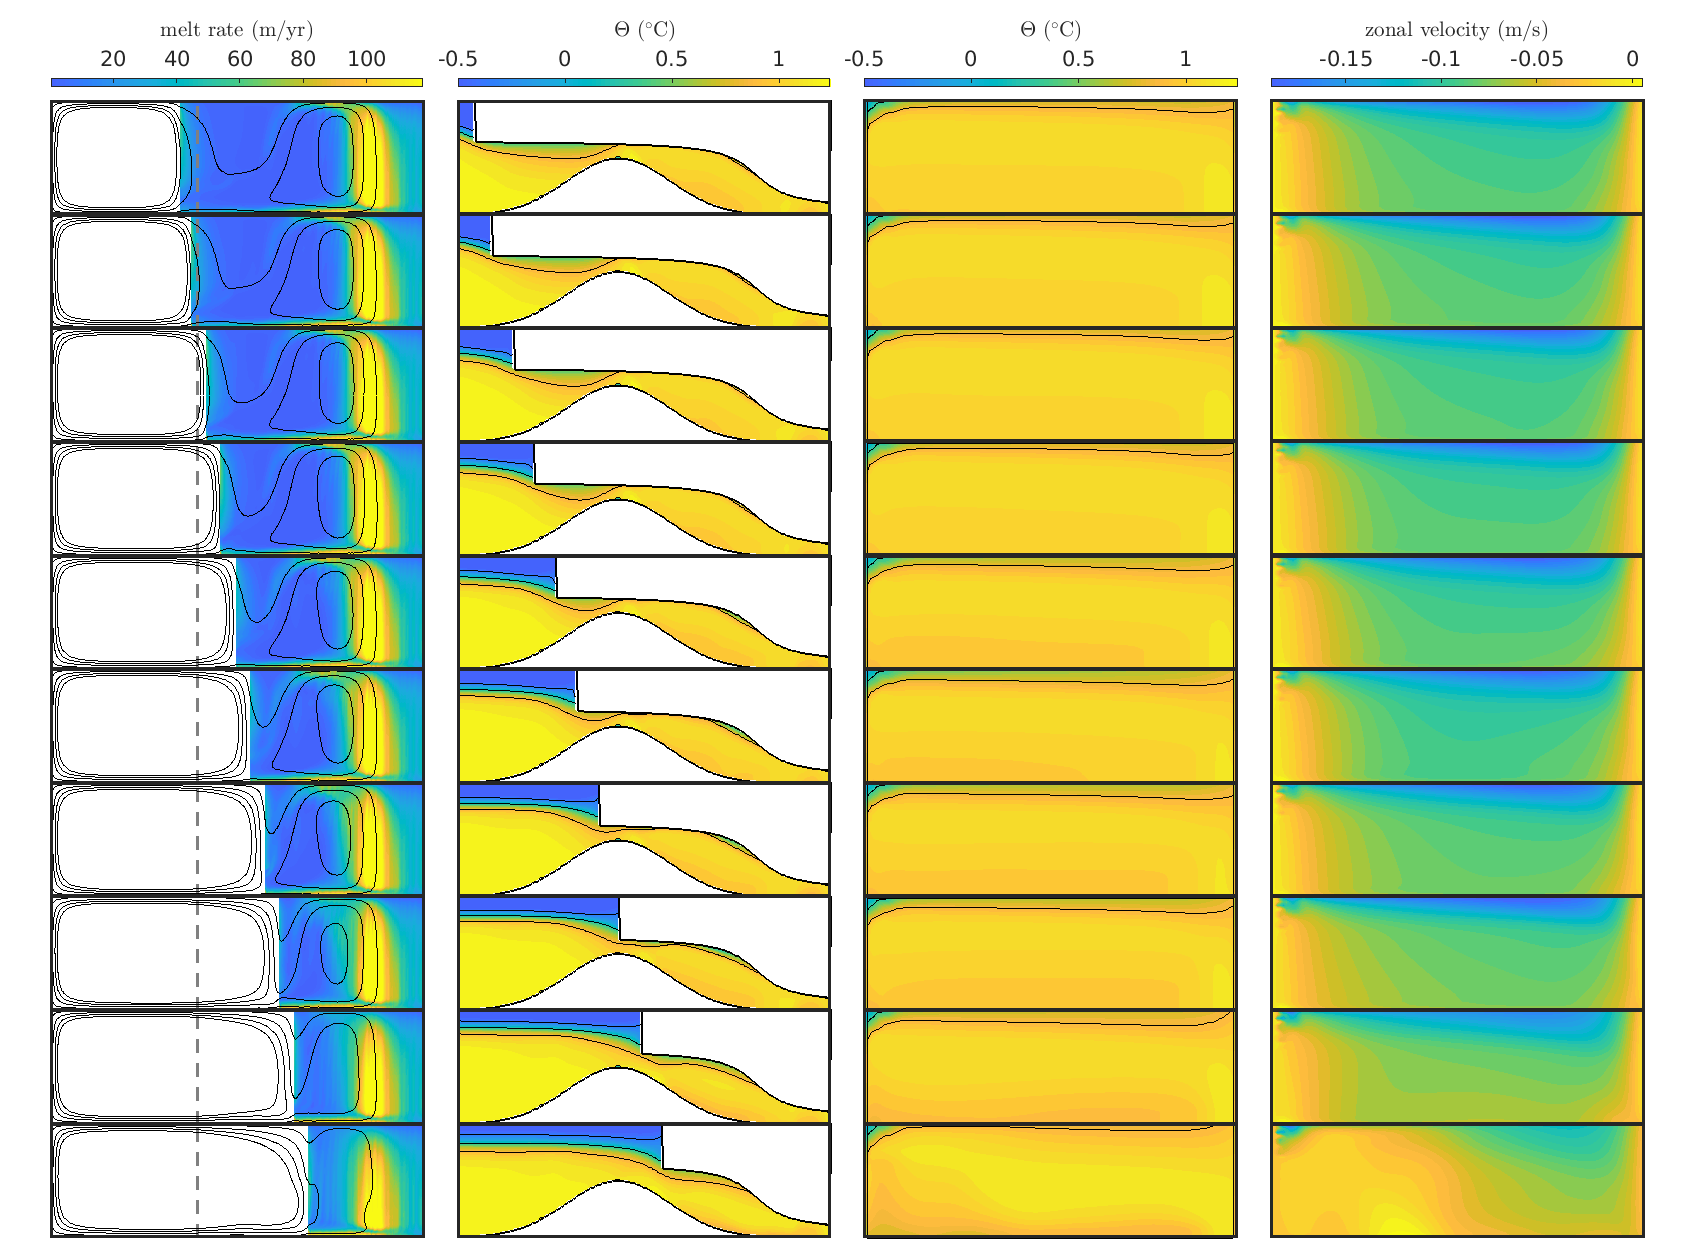
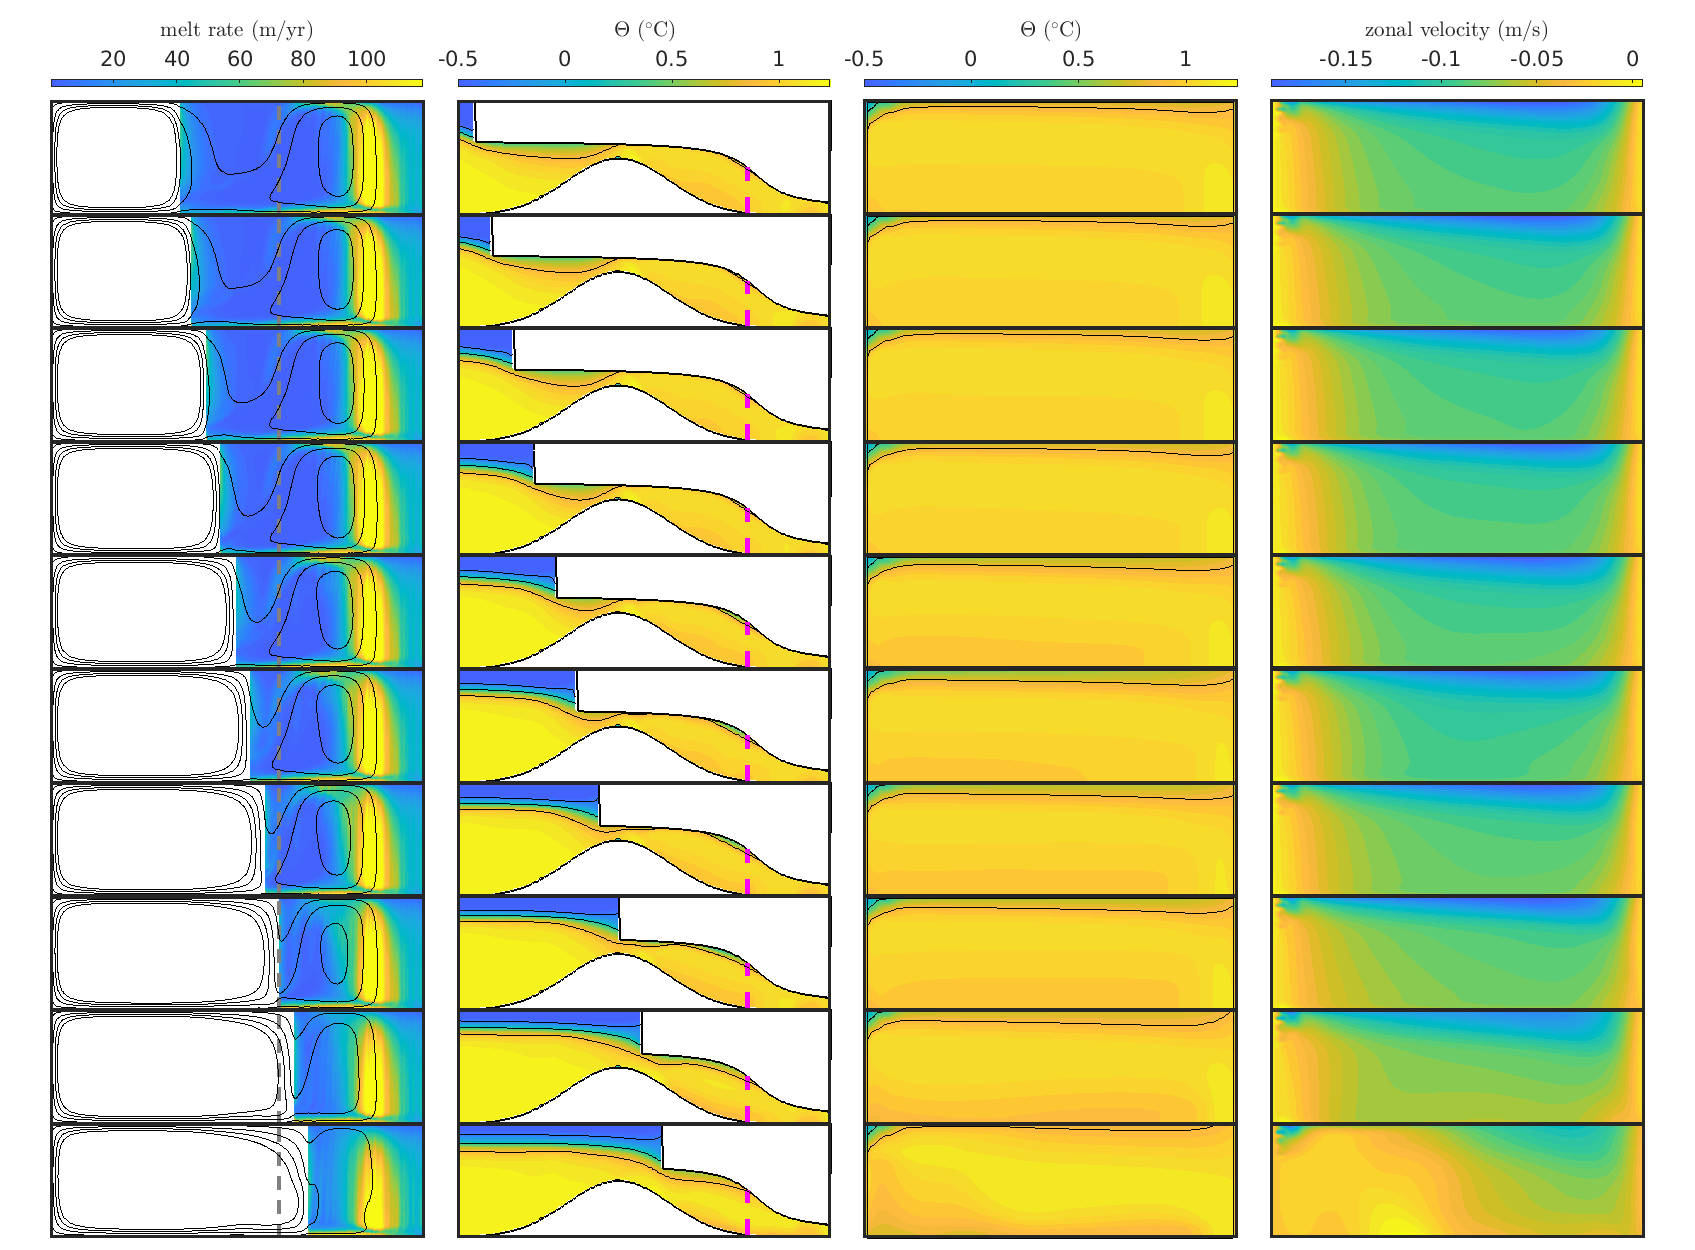
updates to figure 7

diff --git a/make_figures/make_figure7.m b/make_figures/make_figure7.m
@@ -225,7 +225,7 @@ melt(topo == 0) = nan;
 contourf((max(Y) -Y)/1e3,X/1e3,melt, 50, 'linestyle', 'none');
 box on
 hold on
-plot([50, 50], [0, max(X/1e3)],'--', 'color', [0.5, 0.5, 0.5])
+plot(128-[50, 50], [0, max(X/1e3)],'--', 'color', [0.5, 0.5, 0.5])
 colormap(ax(1,p), colmap)
 xticks([]);
 yticks([]);
@@ -288,6 +288,10 @@ if p == 1
         b.FontSize = 10;
         b.Label.Interpreter = 'latex';
 end
+
+%add vertical line showing hwere sections in (c), (d) taken
+plot((max(Y) - Y(zonal_idx))*[1,1],[bathy(3,zonal_idx),topo(3,zonal_idx)], 'm--', 'linewidth', 2)
+
 %add salinity contours
 axnew = axes;
 axnew.Position = ax(2,p).Position;
